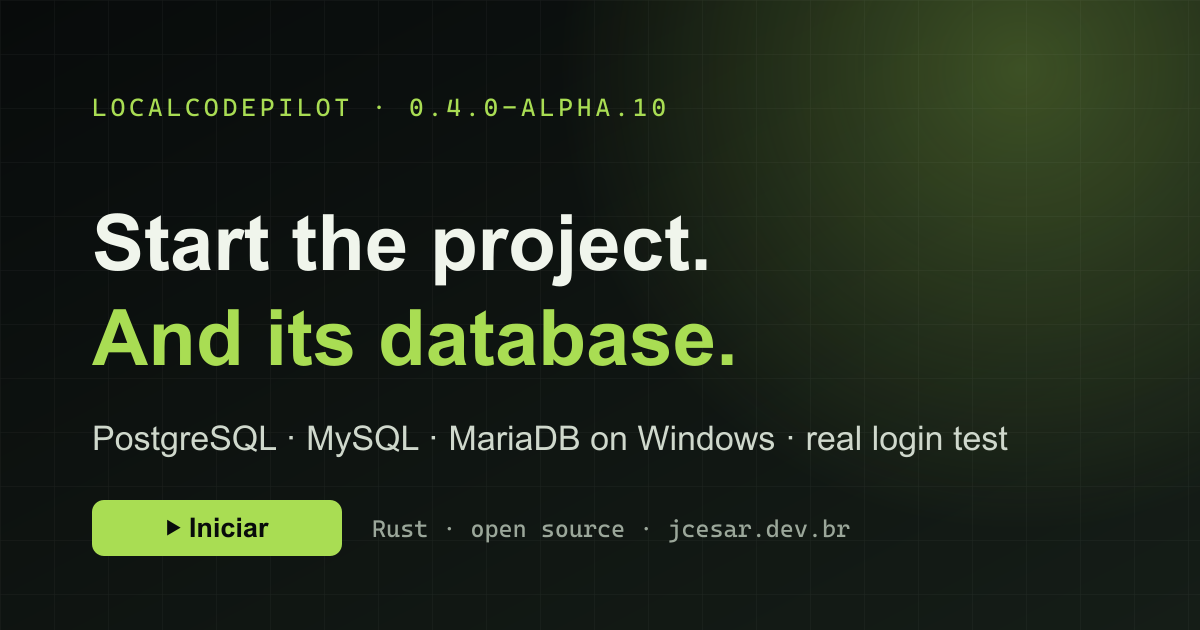
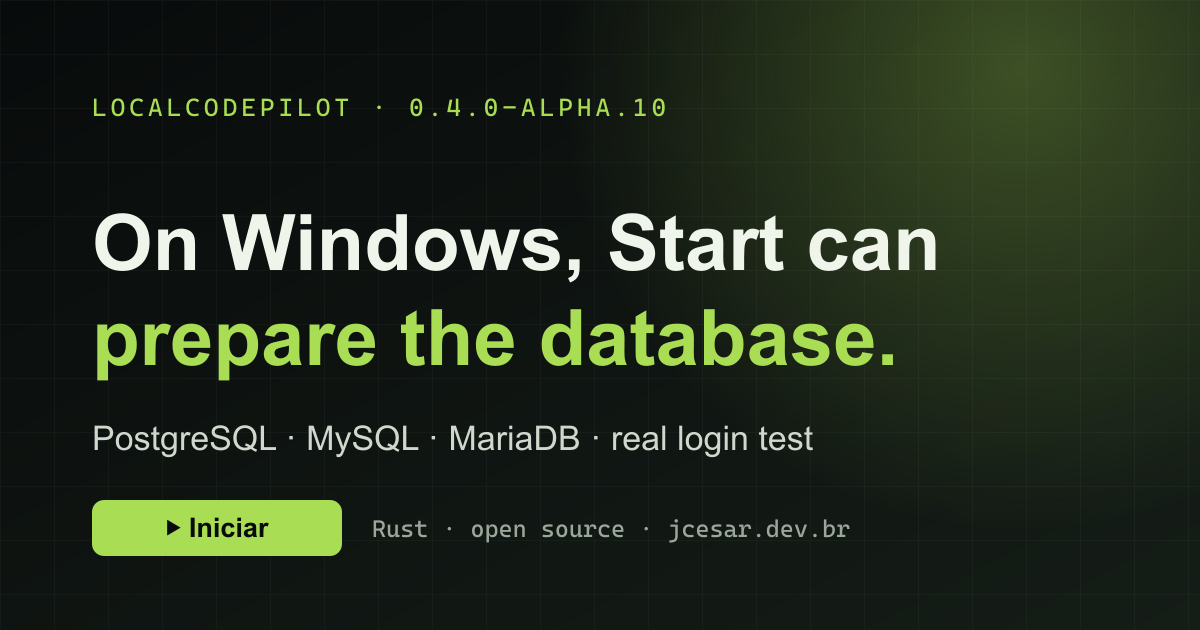
content: títulos, portfólio e imagem da Alpha 10 limitados ao Windows
Ajustes pedidos na revisão: o preparo do banco pelo Iniciar vale só no
Windows, e isso agora aparece nos títulos, na linha do portfólio e na
imagem de compartilhamento.

diff --git a/src/data/locales/es.ts b/src/data/locales/es.ts
@@ -42,7 +42,7 @@ const es: SiteCopy = {
     ctaTitle: '¿Tienes un problema difícil que vale la pena resolver?', ctaText: 'Me interesan roles remotos de ingeniería, colaboraciones técnicas y productos útiles.', ctaButton: 'Hablemos'
   },
   projects: [
-    { ...sharedProjects.localcodepilot, description: 'Aplicación de escritorio open source en Rust: haz clic en Iniciar y el proyecto arranca. Reconoce proyectos de más de 15 lenguajes, prepara las dependencias e incluso instala el lenguaje que falta, con procesos, puertos, registros y contenedores en un solo lugar.', impact: 'Alpha 10 pública, la última alpha planificada: en Windows, Iniciar prepara la base de datos del proyecto (PostgreSQL, MySQL, MariaDB) y solo la muestra conectada después de un inicio de sesión real con los datos del proyecto.' },
+    { ...sharedProjects.localcodepilot, description: 'Aplicación de escritorio open source en Rust: haz clic en Iniciar y el proyecto arranca. Reconoce proyectos de más de 15 lenguajes, prepara las dependencias e incluso instala el lenguaje que falta, con procesos, puertos, registros y contenedores en un solo lugar.', impact: 'Alpha 10 pública, la última alpha planificada: en Windows, Iniciar puede preparar PostgreSQL, MySQL y MariaDB para el proyecto y solo muestra la base de datos como conectada después de probar el inicio de sesión con los datos del proyecto.' },
     { ...sharedProjects.banking, title: 'API de integración financiera', eyebrow: 'Producción · Integración financiera', description: 'Flujo resiliente de entrega de archivos para integraciones bancarias, con procesamiento dispatcher/worker, reintentos y dead-letter queue.', impact: 'Logs estructurados, correlation IDs e idempotencia permiten rastrear y recuperar fallos sin procesamiento duplicado.' },
     { ...sharedProjects.taskflow, description: 'Aplicación de gestión de proyectos y tareas construida como SPA completa con Laravel y Vue.', impact: 'Autenticación Sanctum, políticas de autorización y 15 pruebas automatizadas con 47 aserciones.' },
     { ...sharedProjects.platform, title: 'APIs de integración corporativa', eyebrow: 'Producción · Modernización de plataforma', description: 'Interfaces REST y SOAP que modernizan el acceso a una plataforma corporativa sin abandonar clientes heredados.', impact: 'Modernización gradual con autenticación, rate limiting, documentación de contratos y observabilidad.' }

diff --git a/src/data/locales/pt-br.ts b/src/data/locales/pt-br.ts
@@ -42,7 +42,7 @@ const ptBr: SiteCopy = {
     ctaTitle: 'Tem um problema difícil que vale resolver?', ctaText: 'Tenho interesse em posições remotas de engenharia, colaborações técnicas e produtos úteis.', ctaButton: 'Vamos conversar'
   },
   projects: [
-    { ...sharedProjects.localcodepilot, description: 'Aplicativo desktop open source em Rust: clique em Iniciar e o projeto sobe. Reconhece projetos de mais de 15 linguagens, prepara as dependências e até instala a linguagem que falta, com processos, portas, logs e containers no mesmo lugar.', impact: 'Alpha 10 pública, a última alpha planejada: no Windows, Iniciar prepara o banco de dados do projeto (PostgreSQL, MySQL, MariaDB) e só o mostra conectado depois de um login real com os dados do projeto.' },
+    { ...sharedProjects.localcodepilot, description: 'Aplicativo desktop open source em Rust: clique em Iniciar e o projeto sobe. Reconhece projetos de mais de 15 linguagens, prepara as dependências e até instala a linguagem que falta, com processos, portas, logs e containers no mesmo lugar.', impact: 'Alpha 10 pública, a última alpha planejada: no Windows, Iniciar pode preparar PostgreSQL, MySQL e MariaDB para o projeto e só mostra o banco como conectado após testar o login com os dados do projeto.' },
     { ...sharedProjects.banking, title: 'API de integração financeira', eyebrow: 'Produção · Integração financeira', description: 'Fluxo resiliente de entrega de arquivos para integrações bancárias, com processamento dispatcher/worker, retentativas e dead-letter queue.', impact: 'Logs estruturados, correlation IDs e idempotência tornam falhas rastreáveis e permitem recuperação segura, sem processamento duplicado.' },
     { ...sharedProjects.taskflow, description: 'Aplicação de gestão de projetos e tarefas construída como SPA completa em Laravel e Vue, com experiência refinada de quadro.', impact: 'Autenticação Sanctum, políticas de autorização e 15 testes automatizados com 47 asserções.' },
     { ...sharedProjects.platform, title: 'APIs de integração corporativa', eyebrow: 'Produção · Modernização de plataforma', description: 'Interfaces REST e SOAP que modernizam o acesso a uma plataforma corporativa sem abandonar clientes legados.', impact: 'Modernização gradual com autenticação, rate limiting, documentação de contratos e observabilidade em produção.' }

diff --git a/src/data/locales/en.ts b/src/data/locales/en.ts
@@ -42,7 +42,7 @@ const en: SiteCopy = {
     ctaTitle: 'Have a hard problem worth solving?', ctaText: 'I am interested in remote software engineering roles, technical collaborations and useful products.', ctaButton: 'Start a conversation'
   },
   projects: [
-    { ...sharedProjects.localcodepilot, description: 'Open-source desktop app in Rust: click Start and your project is up. It recognizes projects in more than 15 languages, prepares dependencies and even installs the missing language, with processes, ports, logs and containers in one place.', impact: 'Public Alpha 10, the last planned alpha: Start prepares the project database on Windows (PostgreSQL, MySQL, MariaDB) and only reports it connected after a real login with the project credentials.' },
+    { ...sharedProjects.localcodepilot, description: 'Open-source desktop app in Rust: click Start and your project is up. It recognizes projects in more than 15 languages, prepares dependencies and even installs the missing language, with processes, ports, logs and containers in one place.', impact: 'Public Alpha 10, the last planned alpha: on Windows, Start can prepare PostgreSQL, MySQL and MariaDB for the project and only shows the database as connected after testing the login with the project\'s credentials.' },
     { ...sharedProjects.banking, description: 'A resilient file-delivery workflow for banking integrations, designed with dispatcher/worker processing, retries and a dead-letter queue.', impact: 'Structured logs, correlation IDs and idempotency make failures traceable and safe to recover without duplicate processing.' },
     { ...sharedProjects.taskflow, description: 'A project and task management application built as a complete Laravel and Vue SPA, with a polished board experience.', impact: 'Sanctum authentication, authorization policies and 15 automated tests with 47 assertions.' },
     { ...sharedProjects.platform, description: 'REST and SOAP interfaces that modernize access to an enterprise platform while preserving compatibility with legacy clients.', impact: 'Incremental modernization with authentication, rate limits, contract documentation and production observability.' }
